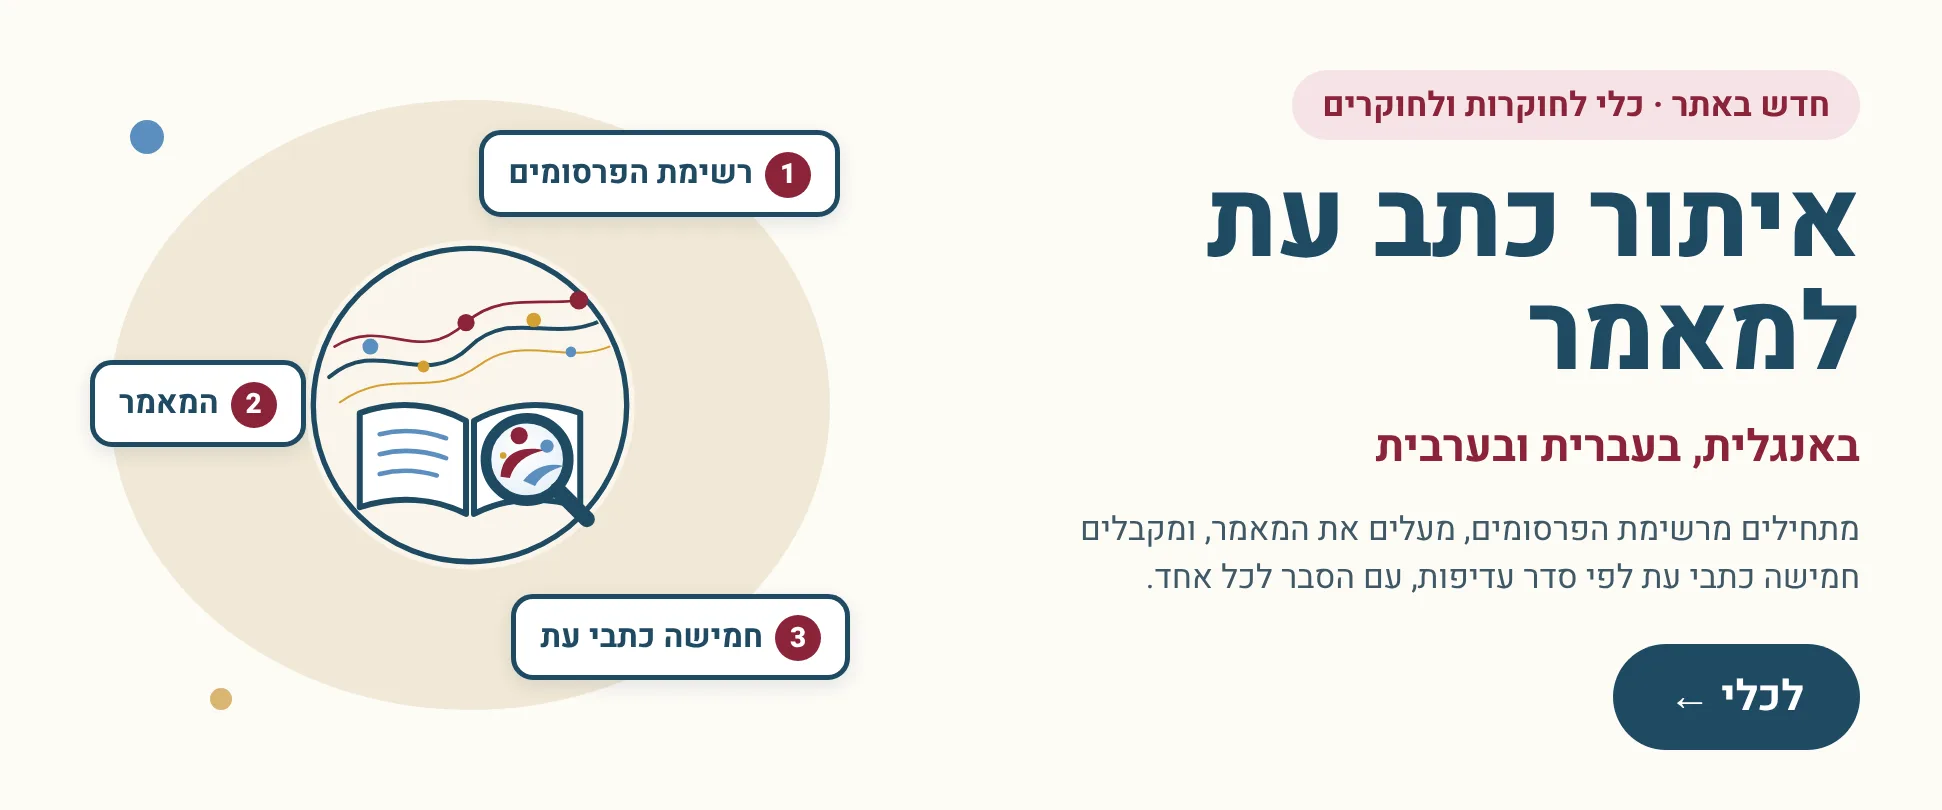
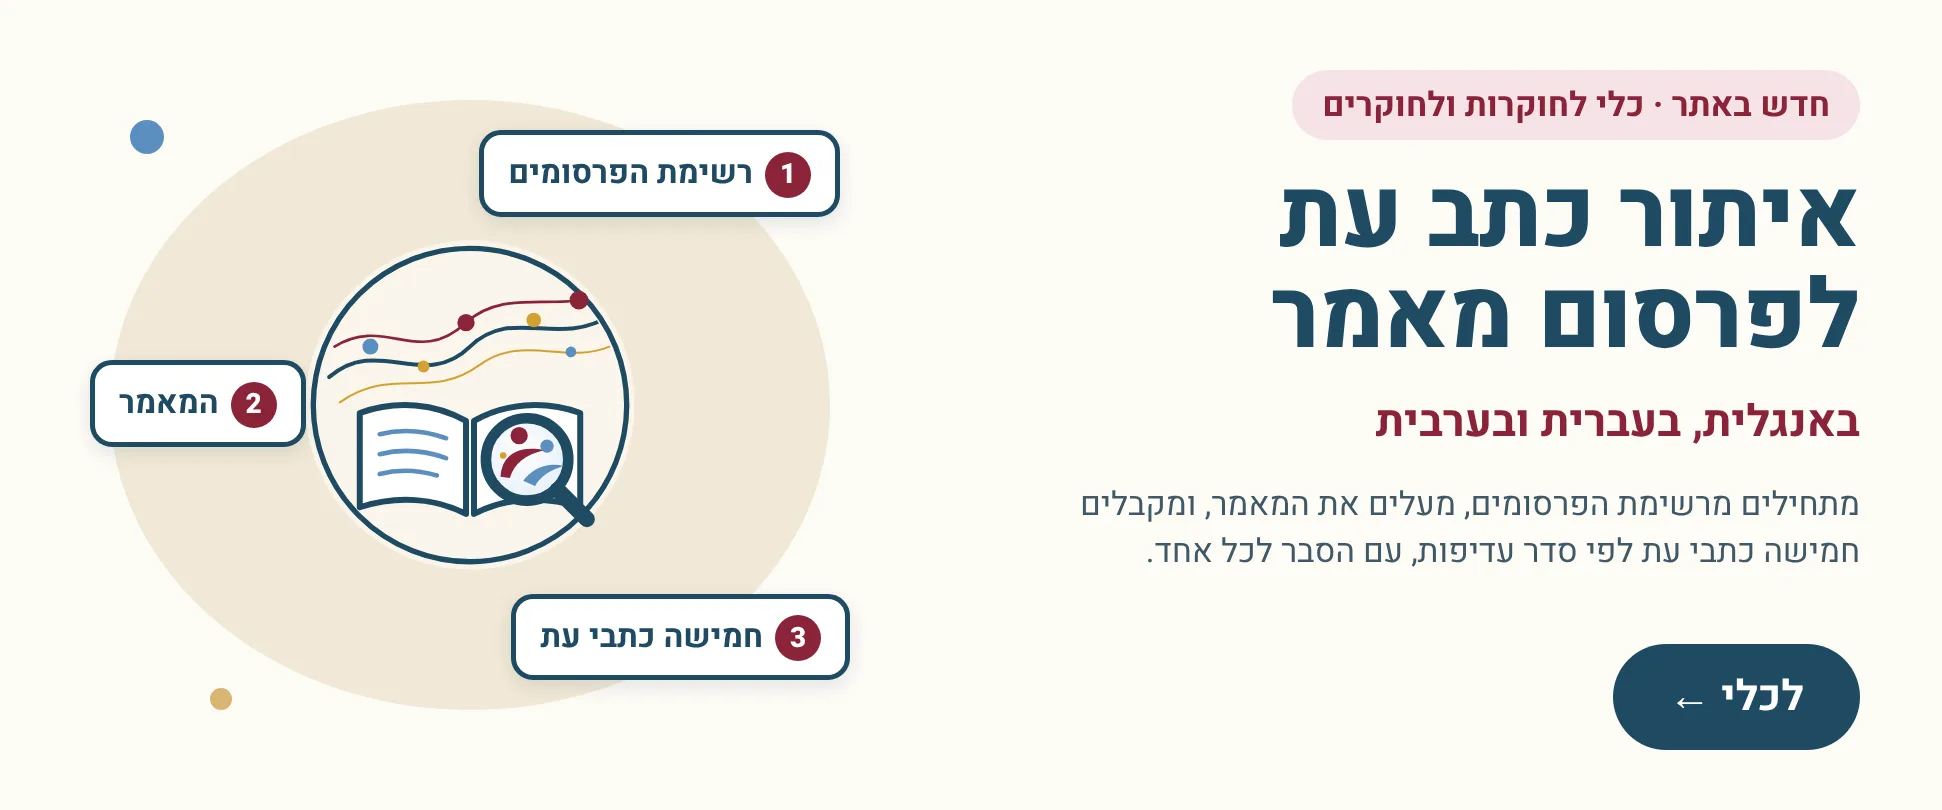
שם הכלי: איתור כתב עת לפרסום מאמר
Claude-Session: https://claude.ai/code/session_01BDkU3fQsAHceizgodPPqhk

Changed region(s): [[0.5561, 0.4938, 0.9578, 0.7407], [0.6179, 0.216, 0.9578, 0.463]]

diff --git a/index.html b/index.html
@@ -2288,7 +2288,7 @@ body:has(.feedback-modal.open){
 <style id="compass-library-modal-v1">
 .compass-library-modal{position:fixed;inset:0;z-index:11000;display:none;align-items:flex-start;justify-content:center;padding:4vh 16px;background:rgba(25,45,57,.48);overflow:auto}.compass-library-modal.open{display:flex}.compass-library-dialog{position:relative;width:min(100%,1080px);margin:auto;background:#fbfcfc;border-radius:12px;box-shadow:0 22px 64px rgba(16,42,57,.3);overflow:hidden}.compass-library-close{position:sticky;top:10px;z-index:1;float:left;margin:10px;border:0;border-radius:50%;width:36px;height:36px;background:#fff;color:#315d71;font-size:23px;cursor:pointer;box-shadow:0 2px 8px rgba(20,50,65,.18)}.compass-library-dialog #compass{display:block!important;padding:0 0 28px!important}.compass-library-dialog #compass .wrap{width:min(100%,980px)!important;padding:28px 24px 0!important}.compass-library-dialog .compass-hero{margin-top:0!important}@media(max-width:700px){.compass-library-modal{padding:0}.compass-library-dialog{min-height:100vh;border-radius:0}.compass-library-dialog #compass .wrap{padding:20px 16px 0!important}}</style>
 <style id="journals-finder-v1">
-/* איתור כתב עת למאמר (10.11.2026): מסך שמציג את הכלי ומפנה אליו. הכלי עצמו רץ בתוך Claude. */
+/* איתור כתב עת לפרסום מאמר (10.11.2026): מסך שמציג את הכלי ומפנה אליו. הכלי עצמו רץ בתוך Claude. */
 #journals{background:#fdfbf6}
 #journals .jf-wrap{max-width:1080px;margin:0 auto;padding:30px 24px 56px;display:flex;flex-direction:column;gap:22px}
 #journals header.jf-head{display:flex;gap:24px;align-items:center;background:none!important;border:0!important;box-shadow:none!important;padding:0!important;margin:0!important;min-height:0!important;position:static!important}
@@ -2351,7 +2351,7 @@ body:has(.feedback-modal.open){
 </aside>
 <div class="top-now-content">
 <div class="grid">
-<a class="icer-project-card" href="/journals" aria-label="איתור כתב עת למאמר: כלי לחוקרות ולחוקרים, באנגלית, בעברית ובערבית. לכניסה"><img src="/assets/journals-card.webp" alt="איתור כתב עת למאמר. מתחילים מרשימת הפרסומים, מעלים את המאמר ומקבלים חמישה כתבי עת לפי סדר עדיפות"></a>
+<a class="icer-project-card" href="/journals" aria-label="איתור כתב עת לפרסום מאמר: כלי לחוקרות ולחוקרים, באנגלית, בעברית ובערבית. לכניסה"><img src="/assets/journals-card.webp" alt="איתור כתב עת לפרסום מאמר. מתחילים מרשימת הפרסומים, מעלים את המאמר ומקבלים חמישה כתבי עת לפי סדר עדיפות"></a>
 <a class="icer-project-card" href="/kikar" aria-label="כיכר הקהילה: שיח מקצועי לשיתוף ידע והעברתו לשדה. לכניסה לכיכר"><img src="/assets/kikar-card.webp" alt="כיכר הקהילה · ساحة المجتمع. נושא אחד במרכז ושבע שיחות סביבו"></a>
 <a class="icer-project-card" href="https://mofet.macam.ac.il/event/icer2027/" target="_blank" rel="noopener" aria-label="הכנס הישראלי למחקר בחינוך ICER 2027 — לפרטים"><img src="/assets/icer-project-card.webp" alt="הכנס הישראלי למחקר בחינוך ICER 2027, 20–22 בספטמבר 2027"></a>
 <a class="icer-project-card" href="https://mofet.macam.ac.il/event/icer2027/" target="_blank" rel="noopener" aria-label="מועדי המפגשים הקרובים של קהילת חוסן חינוך חרום"><img src="/assets/save-the-date.webp" alt="Save the Date — מועדי המפגשים הקרובים של קהילת חוסן חינוך חרום"></a>
@@ -2364,7 +2364,7 @@ body:has(.feedback-modal.open){
     <img src="/assets/journals-icon.svg" alt="" width="120" height="120">
     <div>
       <span class="jf-pill">חדש באתר · כלי לחוקרות ולחוקרים</span>
-      <h1 id="jfTitle">איתור כתב עת למאמר</h1>
+      <h1 id="jfTitle">איתור כתב עת לפרסום מאמר</h1>
       <p class="jf-sub">באנגלית, בעברית ובערבית</p>
       <p class="jf-lead">מתחילים מרשימת הפרסומים, מעלים את המאמר שרוצים לפרסם, ומקבלים חמישה כתבי עת לפי סדר עדיפות, עם הסבר למה כל אחד מתאים יותר או פחות.</p>
     </div>
@@ -7483,7 +7483,7 @@ window.addEventListener('hashchange',()=>openResearchTheme(location.hash));
   try{const d=new Date().toISOString().slice(0,10),k='hosen_pv_'+resolved,v=localStorage.getItem('hosen_visit_id')||'';if(/^[a-z0-9]{10,32}$/.test(v)&&localStorage.getItem(k)!==d){localStorage.setItem(k,d);setTimeout(()=>fetch('/api/visit',{method:'POST',headers:{'Content-Type':'application/json'},body:JSON.stringify({v,p:resolved})}).catch(()=>{}),3000)}}catch(e){}
   if(resourcePages.has(resolved))document.documentElement.dataset.resourcePage='1';
   // לגוגל (5.11.2026): כותרת וקישור קנוני לכל עמוד.
-  try{const T={kikar:'כיכר הקהילה · ساحة المجتمع',journals:'איתור כתב עת למאמר',match:'שיתופי פעולה',people:'הנבחרת',articles:'חידושים במחקר',library:'ספריה',gallery:'גלריה',...labels};const base='בינה מלאכותית: חוסן-חינוך-חרום';
+  try{const T={kikar:'כיכר הקהילה · ساحة المجتمع',journals:'איתור כתב עת לפרסום מאמר',match:'שיתופי פעולה',people:'הנבחרת',articles:'חידושים במחקר',library:'ספריה',gallery:'גלריה',...labels};const base='בינה מלאכותית: חוסן-חינוך-חרום';
     if(T[resolved])document.title=T[resolved]+' · '+base;
     const c=document.getElementById('canonicalLink');if(c)c.href='https://hosen-hinuch-herum.netlify.app/'+(resolved==='now'?'':resolved);}catch(e){}
 
